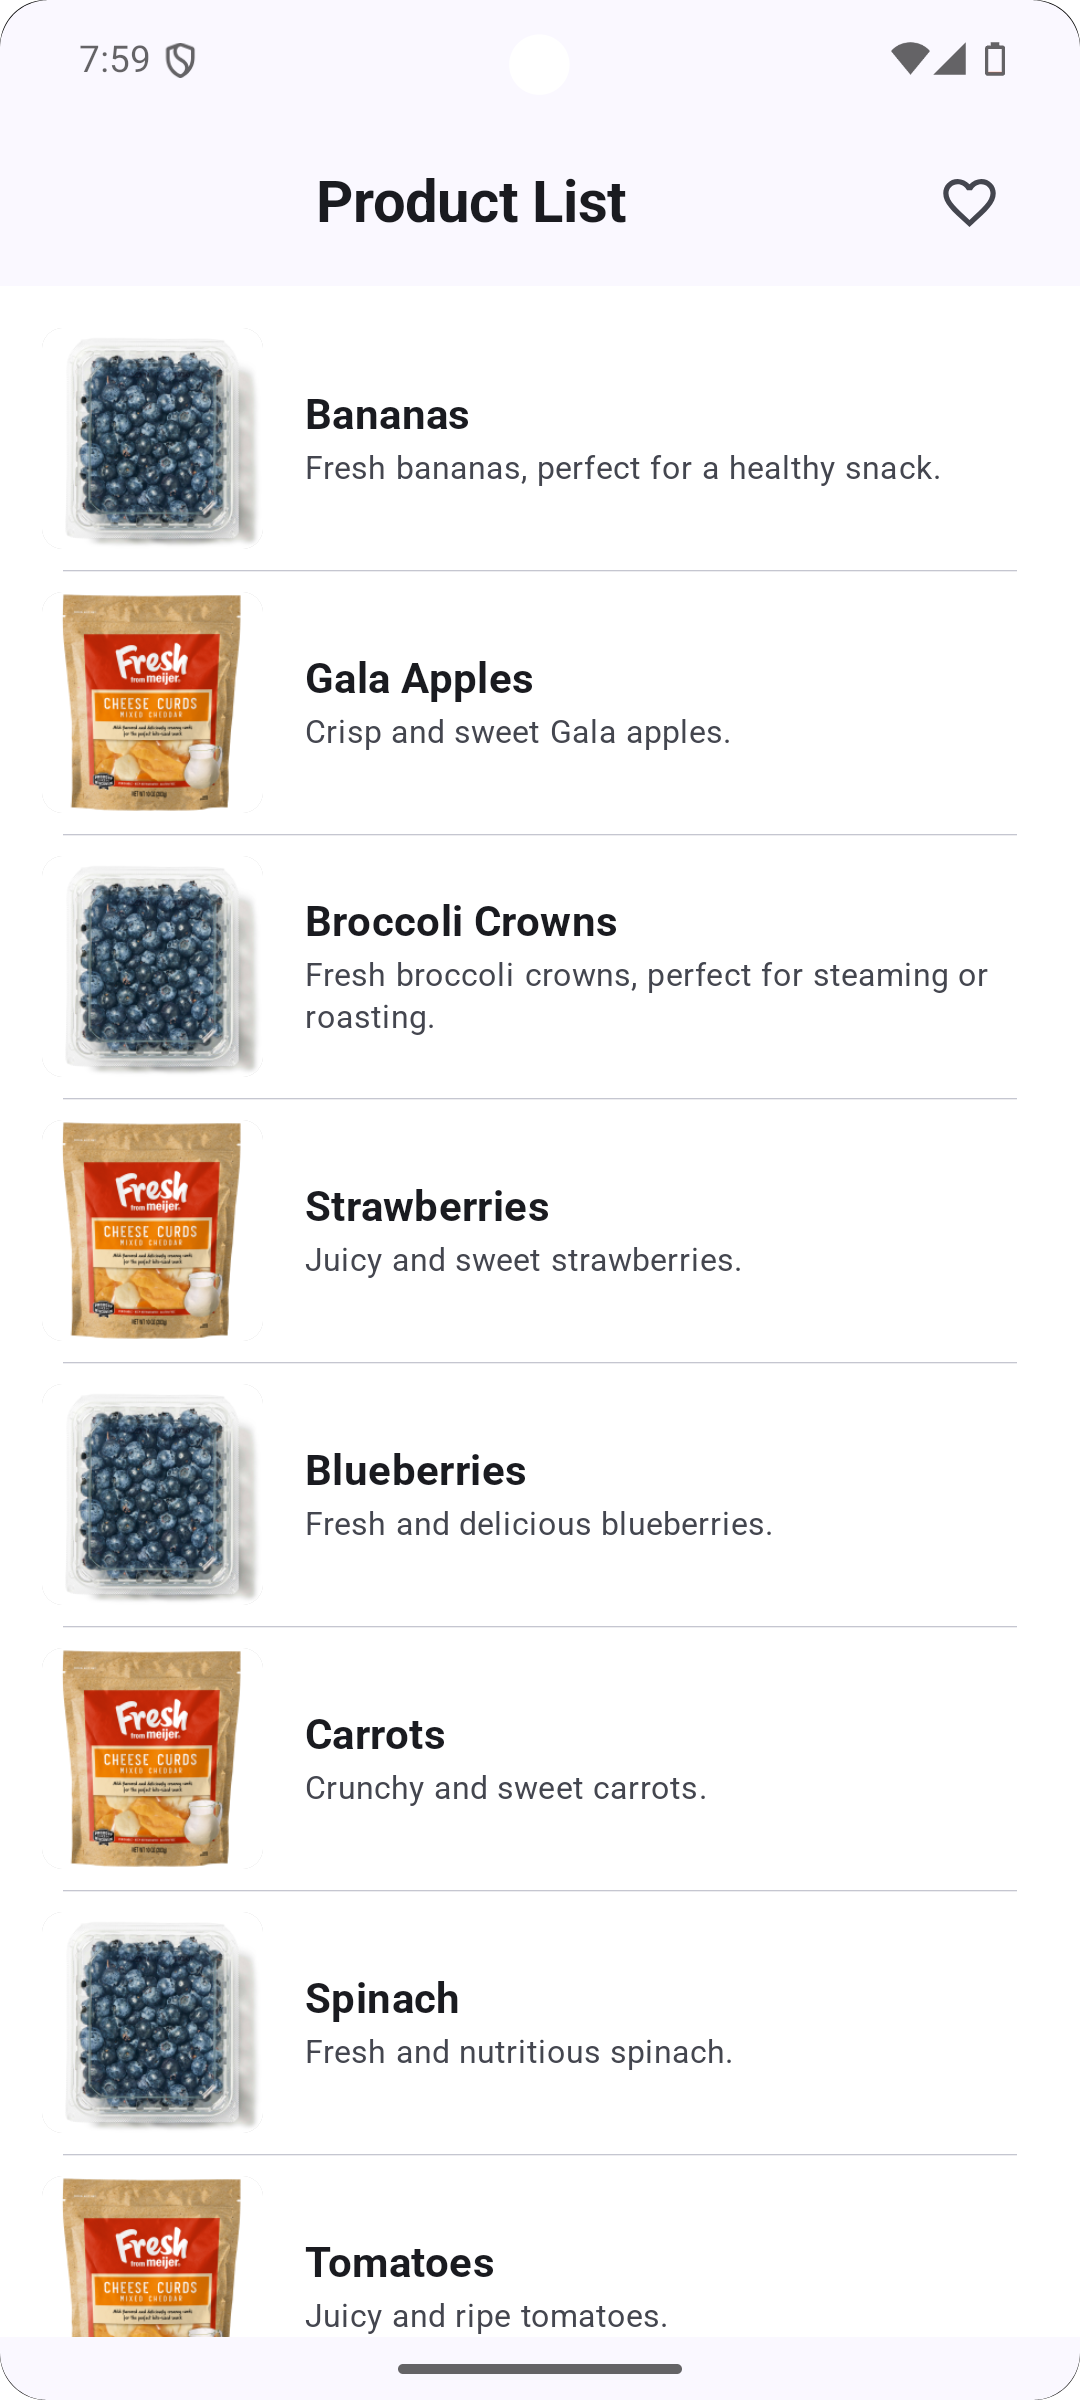
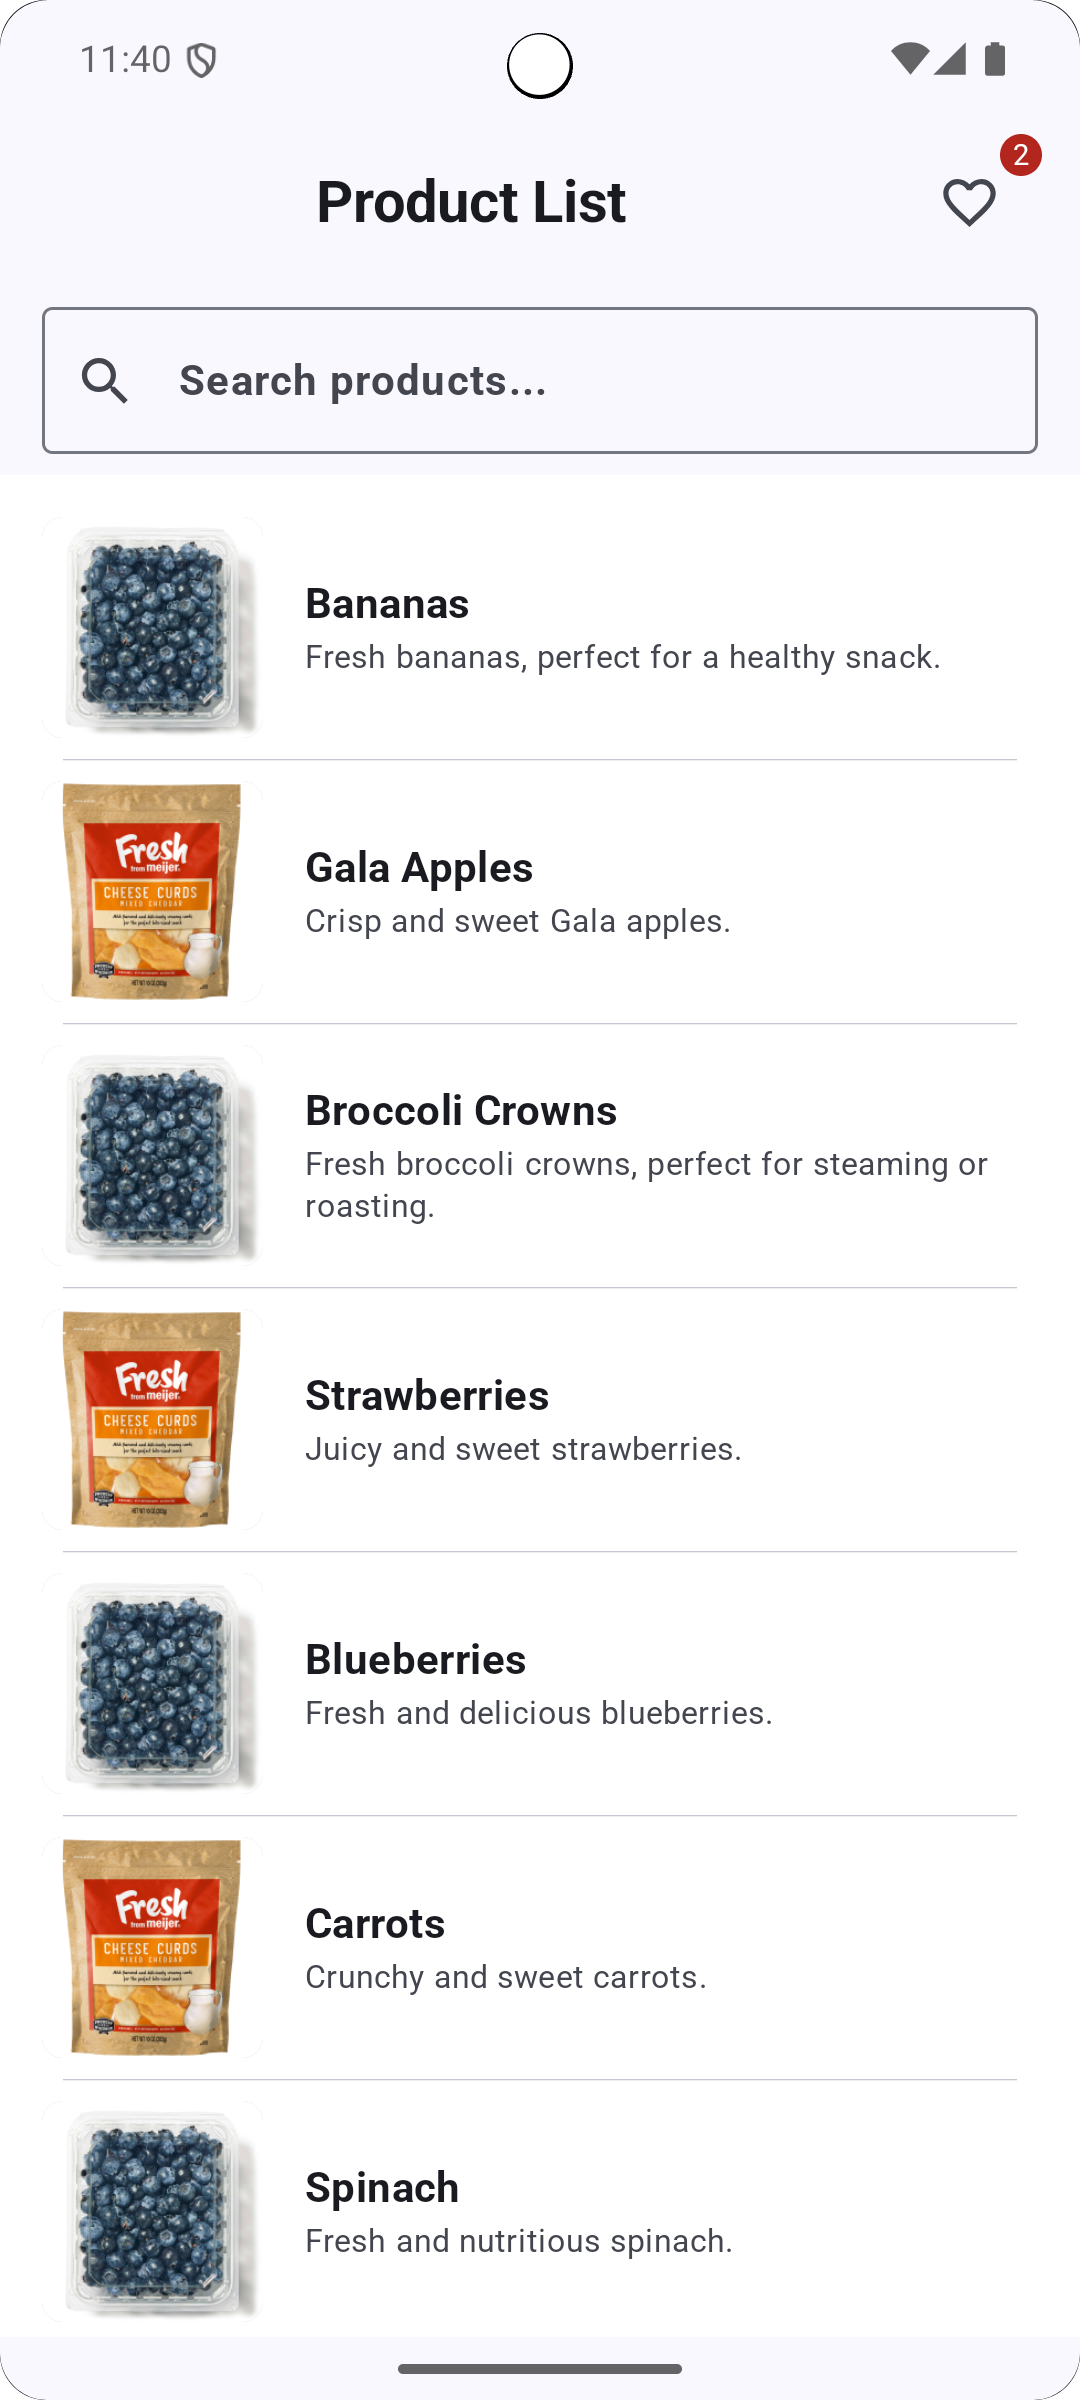
Search feature implementation

diff --git a/app/src/main/java/com/anandharaj/knowmeapp/product/ui/ProductListScreen.kt b/app/src/main/java/com/anandharaj/knowmeapp/product/ui/ProductListScreen.kt
@@ -11,8 +11,8 @@ import androidx.compose.material.icons.Icons
 import androidx.compose.material.icons.filled.Face
 import androidx.compose.material.icons.filled.FavoriteBorder
 import androidx.compose.material.icons.filled.Refresh
+import androidx.compose.material.icons.filled.Search
 import androidx.compose.material3.*
-import androidx.compose.material3.MaterialTheme
 import androidx.compose.runtime.*
 import androidx.compose.ui.Alignment
 import androidx.compose.ui.Modifier
@@ -29,6 +29,7 @@ import androidx.hilt.navigation.compose.hiltViewModel
 import androidx.navigation.NavController
 import com.anandharaj.knowmeapp.R
 import com.anandharaj.knowmeapp.product.data.Product
+import com.anandharaj.knowmeapp.product.utils.NavConstants
 import com.anandharaj.knowmeapp.product.utils.ProductListScreenTestTags
 import com.anandharaj.knowmeapp.product.utils.ProductListScreenTestTags.productItemImageTag
 import com.anandharaj.knowmeapp.product.utils.ProductListScreenTestTags.productItemTitleTag
@@ -52,38 +53,55 @@ fun ProductListScreen(
         Scaffold(
             modifier = Modifier.testTag(ProductListScreenTestTags.SCREEN_ROOT),
             topBar = {
-                TopAppBar(
-                    title = {
-                        Text(
-                            text = stringResource(id = R.string.product_list_title),
-                            textAlign = TextAlign.Center,
-                            style = MaterialTheme.typography.titleLarge,
-                            modifier = Modifier
-                                .fillMaxWidth()
-                                .testTag(ProductListScreenTestTags.TOP_APP_BAR_TITLE),
-                        )
-                    },
-                    actions = {
-                        BadgedBox(modifier = Modifier.padding(6.dp), badge = {
-                            if (uiState.wishlistItems.isNotEmpty()) {
-                                Badge {
-                                    Text(uiState.wishlistItems.size.toString())
+                Column {
+                    TopAppBar(
+                        title = {
+                            Text(
+                                text = stringResource(id = R.string.product_list_title),
+                                textAlign = TextAlign.Center,
+                                style = MaterialTheme.typography.titleLarge,
+                                modifier = Modifier
+                                    .fillMaxWidth()
+                                    .testTag(ProductListScreenTestTags.TOP_APP_BAR_TITLE),
+                            )
+                        },
+                        actions = {
+                            BadgedBox(modifier = Modifier.padding(6.dp), badge = {
+                                if (uiState.wishlistItems.isNotEmpty()) {
+                                    Badge {
+                                        Text(uiState.wishlistItems.size.toString())
+                                    }
+                                }
+                            }) {
+                                IconButton(onClick = {
+                                    navController.navigate(NavConstants.WISHLIST_SCREEN_ROUTE)
+                                }) {
+                                    Icon(
+                                        imageVector = Icons.Default.FavoriteBorder,
+                                        contentDescription = stringResource(id = R.string.wishlist_icon_description)
+                                    )
                                 }
                             }
-                        }) {
-                            IconButton(onClick = {
-                                navController.navigate("wishlist_screen")
-                            }) {
-                                Icon(
-                                    imageVector = Icons.Default.FavoriteBorder,
-                                    contentDescription = stringResource(id = R.string.wishlist_icon_description)
-                                )
-                            }
-                        }
 
-                        Spacer(modifier = Modifier.size(8.dp))
-                    }
-                )
+                            Spacer(modifier = Modifier.size(8.dp))
+                        }
+                    )
+                    // Search Bar
+                    OutlinedTextField(
+                        value = uiState.searchQuery,
+                        onValueChange = { query ->
+                            viewModel.onEvent(ProductScreenEvent.SearchProducts(query))
+                        },
+                        modifier = Modifier
+                            .fillMaxWidth()
+                            .padding(horizontal = 16.dp, vertical = 8.dp)
+                            .testTag("search_text_field"),
+                        placeholder = { Text(stringResource(id = R.string.search_products_placeholder)) },
+                        leadingIcon = { Icon(Icons.Default.Search, contentDescription = stringResource(R.string.search_icon_description)) },
+                        singleLine = true,
+
+                    )
+                }
             }
         ) { paddingValues ->
             Box(
@@ -156,7 +174,7 @@ fun ProductListScreen(
                         }
                     }
 
-                    !uiState.products.isNullOrEmpty() -> {
+                    !uiState.products.isNullOrEmpty() || uiState.searchQuery.isNotEmpty() -> {
                         LazyColumn(
                             modifier = Modifier
                                 .fillMaxSize()
@@ -164,14 +182,13 @@ fun ProductListScreen(
                             contentPadding = PaddingValues(8.dp)
                         ) {
                             items(
-                                items = uiState.products!!,
+                                items = uiState.products.orEmpty(),
                                 key = { product -> product.id }) { product ->
                                 ProductListItem(
                                     product = product,
                                     onItemClick = {
                                         navController.navigate("product_detail/${product.id}")
                                     },
-
                                     modifier = Modifier
                                         .testTag(
                                             "${
@@ -208,7 +225,6 @@ fun ProductListScreen(
         }
     }
 }
-
 
 @OptIn(ExperimentalGlideComposeApi::class)
 @Composable

diff --git a/app/src/main/java/com/anandharaj/knowmeapp/product/viewmodels/ProductViewModel.kt b/app/src/main/java/com/anandharaj/knowmeapp/product/viewmodels/ProductViewModel.kt
@@ -38,6 +38,8 @@ class ProductViewModel @Inject constructor(
     private val _uiState = MutableStateFlow(ProductScreenState())
     val uiState: StateFlow<ProductScreenState> = _uiState.asStateFlow()
 
+    private var _allProducts: List<Product>? = null
+
     init {
         viewModelScope.launch {
             _uiState.collect { state ->
@@ -90,8 +92,7 @@ class ProductViewModel @Inject constructor(
                 _uiState.update { it.copy(lastWishlistActionMessage = null) }
             }
             is ProductScreenEvent.RemoveFromWishlist -> toggleWishlist(event.product)
-
-
+            is ProductScreenEvent.SearchProducts -> searchProducts(event.query)
         }
     }
 
@@ -109,6 +110,7 @@ class ProductViewModel @Inject constructor(
             _uiState.update { it.copy(isLoadingList = true, error = null) }
             try {
                 val products = repository.fetchProducts()
+                _allProducts = products // Store the original list
                 _uiState.update {
                     it.copy(products = products, isLoadingList = false)
                 }
@@ -142,6 +144,21 @@ class ProductViewModel @Inject constructor(
             }
         }
     }
+
+    private fun searchProducts(query: String) {
+        _uiState.update { currentState ->
+            val filteredProducts = if (query.isBlank()) {
+                _allProducts // If query is empty, show all products
+            } else {
+                _allProducts?.filter {
+                    it.title.contains(query, ignoreCase = true) ||
+                            it.summary.contains(query, ignoreCase = true)
+                }
+            }
+            currentState.copy(searchQuery = query, products = filteredProducts)
+        }
+    }
+
 
     private fun loadProductDetail(productId: Int) {
         viewModelScope.launch {

diff --git a/app/src/main/java/com/anandharaj/knowmeapp/product/ui/ProductScreenState.kt b/app/src/main/java/com/anandharaj/knowmeapp/product/ui/ProductScreenState.kt
@@ -13,5 +13,7 @@ data class ProductScreenState(
     val currentAddress: String? = "Address not available.",
     val locationPermissionGranted: Boolean? = null,
     val wishlistItems: List<Product> = emptyList(),
-    val lastWishlistActionMessage: String? = null
+    val lastWishlistActionMessage: String? = null,
+    val searchQuery: String = ""
+
 )

diff --git a/app/src/main/java/com/anandharaj/knowmeapp/product/ui/ProductScreenEvent.kt b/app/src/main/java/com/anandharaj/knowmeapp/product/ui/ProductScreenEvent.kt
@@ -23,4 +23,6 @@ sealed interface ProductScreenEvent {
     data class AddToWishlist(val product: Product) : ProductScreenEvent
     object ClearLastWishlistActionMessage : ProductScreenEvent
     data class RemoveFromWishlist(val product: Product) : ProductScreenEvent
+    data class SearchProducts(val query: String) : ProductScreenEvent
+
 }

diff --git a/README.md b/README.md
@@ -45,8 +45,8 @@ This is where your screenshots shine! Embed them directly or link to them. Use c
 | :------------------------------------------------------ | :------------------------------------------------------ |
 | ![AppLandingScreen](screenshots/AppLandingScreen.png)|![ProductListScreen](screenshots/ProductListScreen.png) |
 | *[AppLandingScreen]* | *[ProductListScreen]* |
-| ![productDetailScreen](screenshots/productDetailScreen.png)|![InternetExceptionScreen](screenshots/InternetExceptionScreen.png) |
-| *[productDetailScreen]* | *[InternetExceptionScreen]* |
+| ![productDetailScreen](screenshots/productDetailScreen.png)|![ProductSearchEngineScreen](screenshots/ProductSearchEngineScreen.png) |
+| *[productDetailScreen]* | *[ProductSearchEngineScreen]* |
 | ![Location Permission](screenshots/LocationPermission.png)|![Getting Location](screenshots/GettingLocation.png) |
 | *[LocationPermission)]* | *[GettingLocation]* |
 | ![AddToListScreen](screenshots/AddToListScreen.png)|![TopAppBarWishList](screenshots/TopAppBarWishList.png) |
@@ -57,6 +57,8 @@ This is where your screenshots shine! Embed them directly or link to them. Use c
 | *[WishListScreen]* | *[SharingContentToSocialApp]* |
 | ![WishListRemovedItem](screenshots/WishListRemovedItem.png)|![WishListScreen](screenshots/WishListScreen.png) |
 | *[WishListRemovedItem]* | *[WishListScreen]* |
+| ![InternetExceptionScreen](screenshots/InternetExceptionScreen.png)|![WishListScreen](screenshots/WishListScreen.png) |
+| *[InternetExceptionScreen]* | *[WishListScreen]* |
 
 
 *Tip: For larger apps, you might use a dedicated `screenshots/` directory and link to them.*
